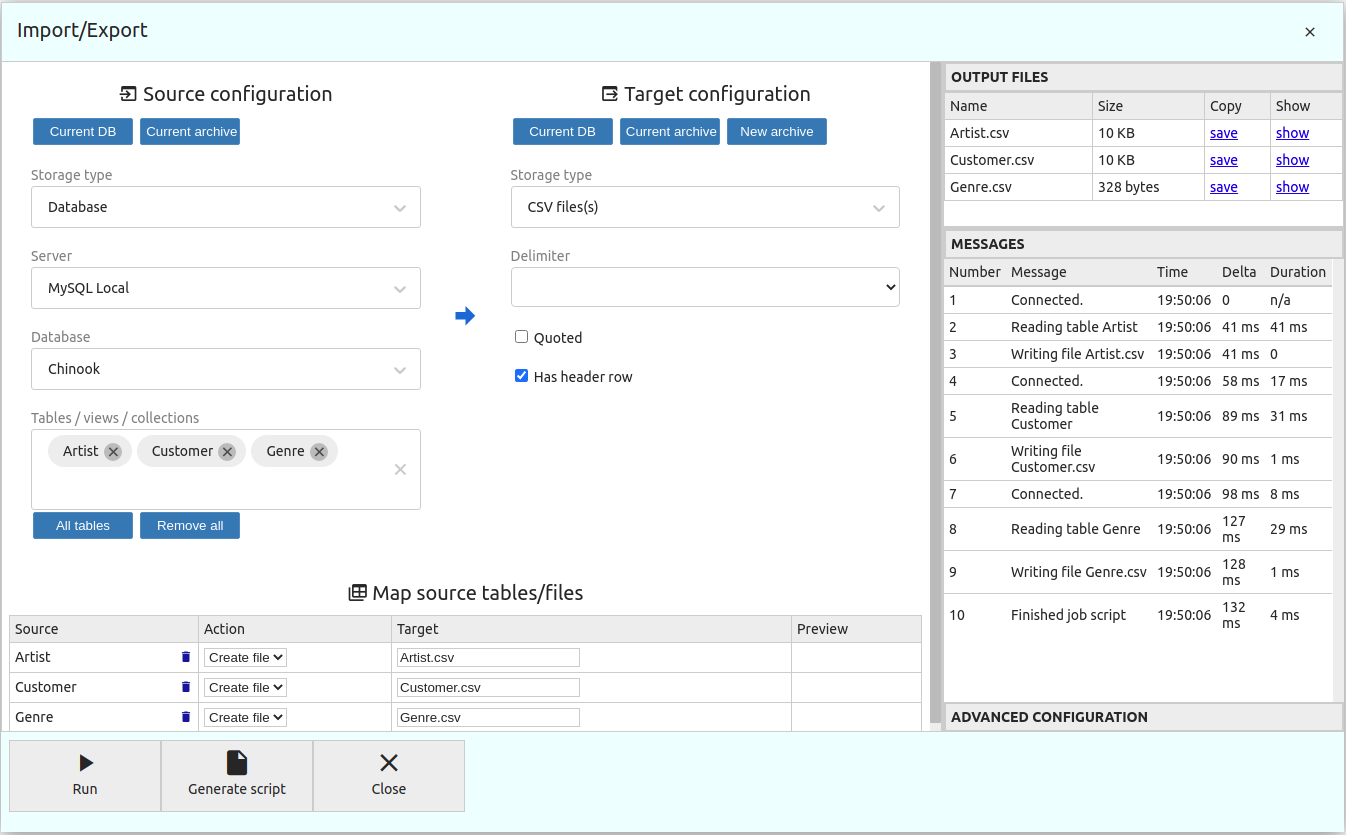
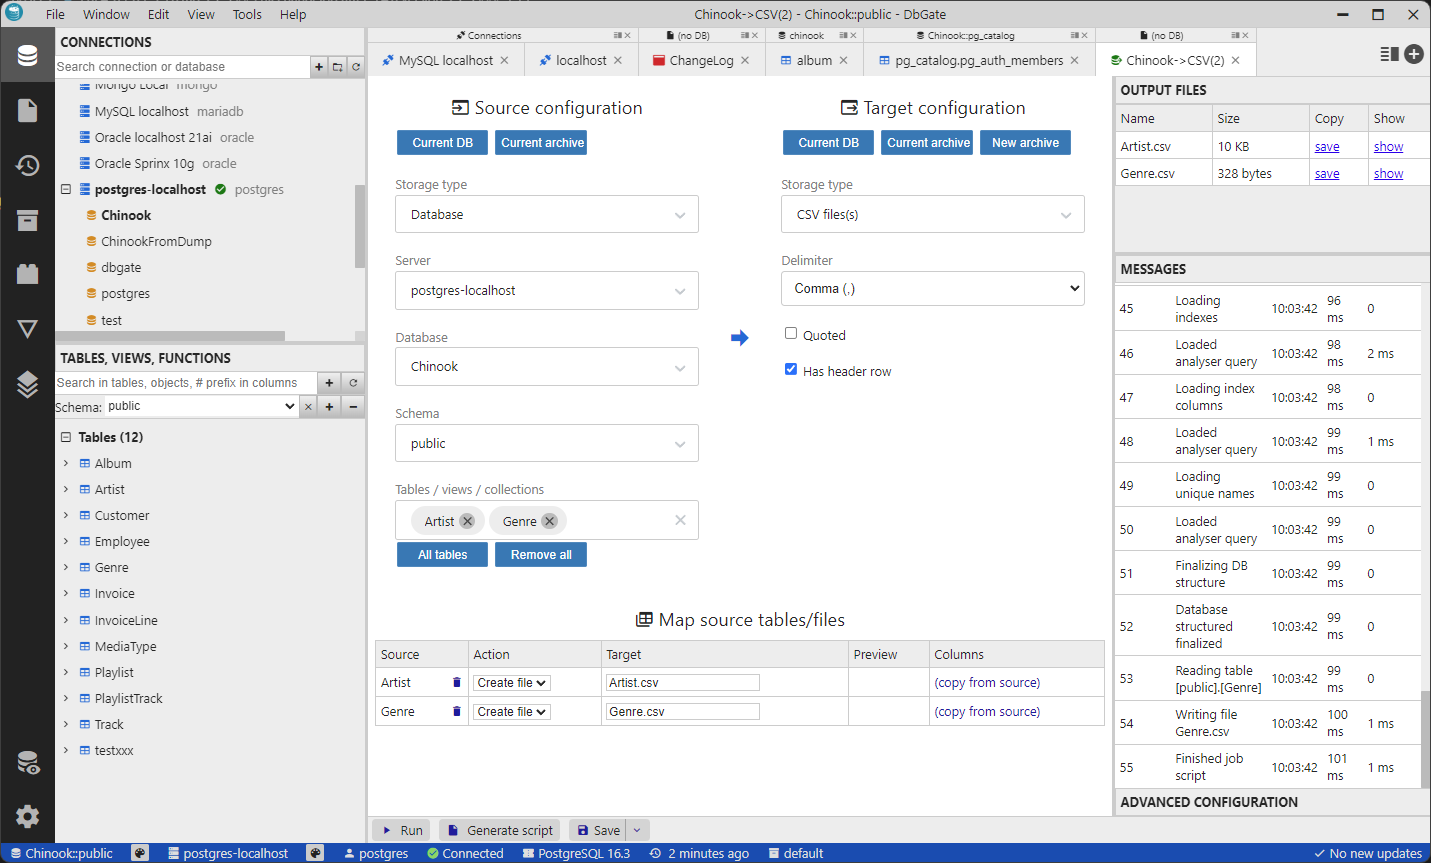
5.5.0 info

diff --git a/_posts/2024-09-03-5.5.0.md b/_posts/2024-09-03-5.5.0.md
@@ -1,0 +1,67 @@
+---
+layout: post
+title: Version 5.5.0 - ClickHouse support, improved imports/exports, separate-schema mode for big databases
+categories: development
+date: 2024-09-25 08:00:00
+---
+
+I am glad to announce new release of DbGate - 5.5.0. There is a huge set of improvements coming with this release, but the main hightlight is long-awaited support of ClickHouse database engine.
+
+[ClickHouse](https://clickhouse.com/) is fast OLAP open-source database. DbGate has wide support of clickhouse features, you could create and change tables, with ability of definiting clickhouse specific features like sorting keys or table engines. As for other supported databases, you can import and export data, or do data editing job (which, by the way, is a bit more tricky than for traditional SQL databases)
+
+The second big improvement is redesign of import/export system. Former full-screen modal dialog was used, this is now replaced with tab, which has some benefits, you could easily re-run import/export after checking affected data, you could even save export/import job for later.
+
+Also there is new import from JSON files, which could also import from URL. This is very handy for importing result of APIs into your databases.
+
+### Import/export tab
+
+<img src='/assets/screenshots/export.png' />
+
+### Old Import/export dialog
+
+<img src='/assets/screenshots/exportold.png' />
+
+## Full changelog after 5.4.0 version
+
+### 5.5.1
+- ADDED: Clickhouse support (#532)
+- ADDED: MySQL - specify table engine, show table engine in table list
+- FIXED: Hidden primary key name in PK editor for DB engines with anonymous PK (MySQL)
+- CHANGED: Import/export dialog is now tab instead of modal
+- ADDED: Saving import/export job
+- REMOVED: Ability to reopen export/import wizard from generated script. This was a bit hack, now you could save import/export job instead
+- ADDED: Autodetect CSV delimited
+- FIXED: Import CSV files with spaces around quotes
+- ADDED: JSON file import
+- ADDED: JSON export can export objects with ID field used as object key
+- ADDED: JSON and JSON lines imports supports importing from web URL
+- FIXED: Editing imported URL in job editor
+- ADDED: Quick export from table data grid (#892)
+- CHANGED: Create table workflow is reworked, you can specify schema and table name in table editor
+- FIXED: After saving new table, table editor is reset to empty state
+- ADDED: (PostgreSQL, SQL Server) - ability to filter objects by schema
+- ADDED: (PostgreSQL, SQL Server) - Use separate schemas option - for databases with lot of schemas, only selected schema is loaded
+- FIXED: Internal refactor of drivers, client objects are not more messed up with auxiliary fields
+- ADDED: Copy connection error to clipboard after clicking on error icon
+- FIXED: (MySQL) Fixed importing SQL dump exported from mysqldump (#702)
+- FIXED: (PostgreSQL) Fixed filtering JSONB fields (#889)
+- FIXED: OIDC authentication not working anymore (#891)
+- ADDED: Added tests for import from CSV and JSON
+- FIXED: multiple shortcuts handling #898
+- ADDED: (Premium) MS Entra authentization for Azure SQL databases
+
+### 5.4.4
+- CHANGED: Improved autoupdate, notification is now in app
+- CHANGED: Default behaviour of autoupdate, new version is downloaded after click of "Download" button
+- ADDED: Ability to configure autoupdate (check only, check+download, don't check)
+- ADDED: Option to run check for new version manually
+- FIXED: Fixed autoupgrade channel for premium edition
+- FIXED: Fixes following issues: #886, #865, #782, #375
+
+### 5.4.2
+- FIXED: DbGate now works correctly with Oracle 10g
+- FIXED: Fixed update channel for premium edition
+
+### 5.4.1
+- FIXED: Broken older plugins #881
+- ADDED: Premium edition - "Start trial" button
